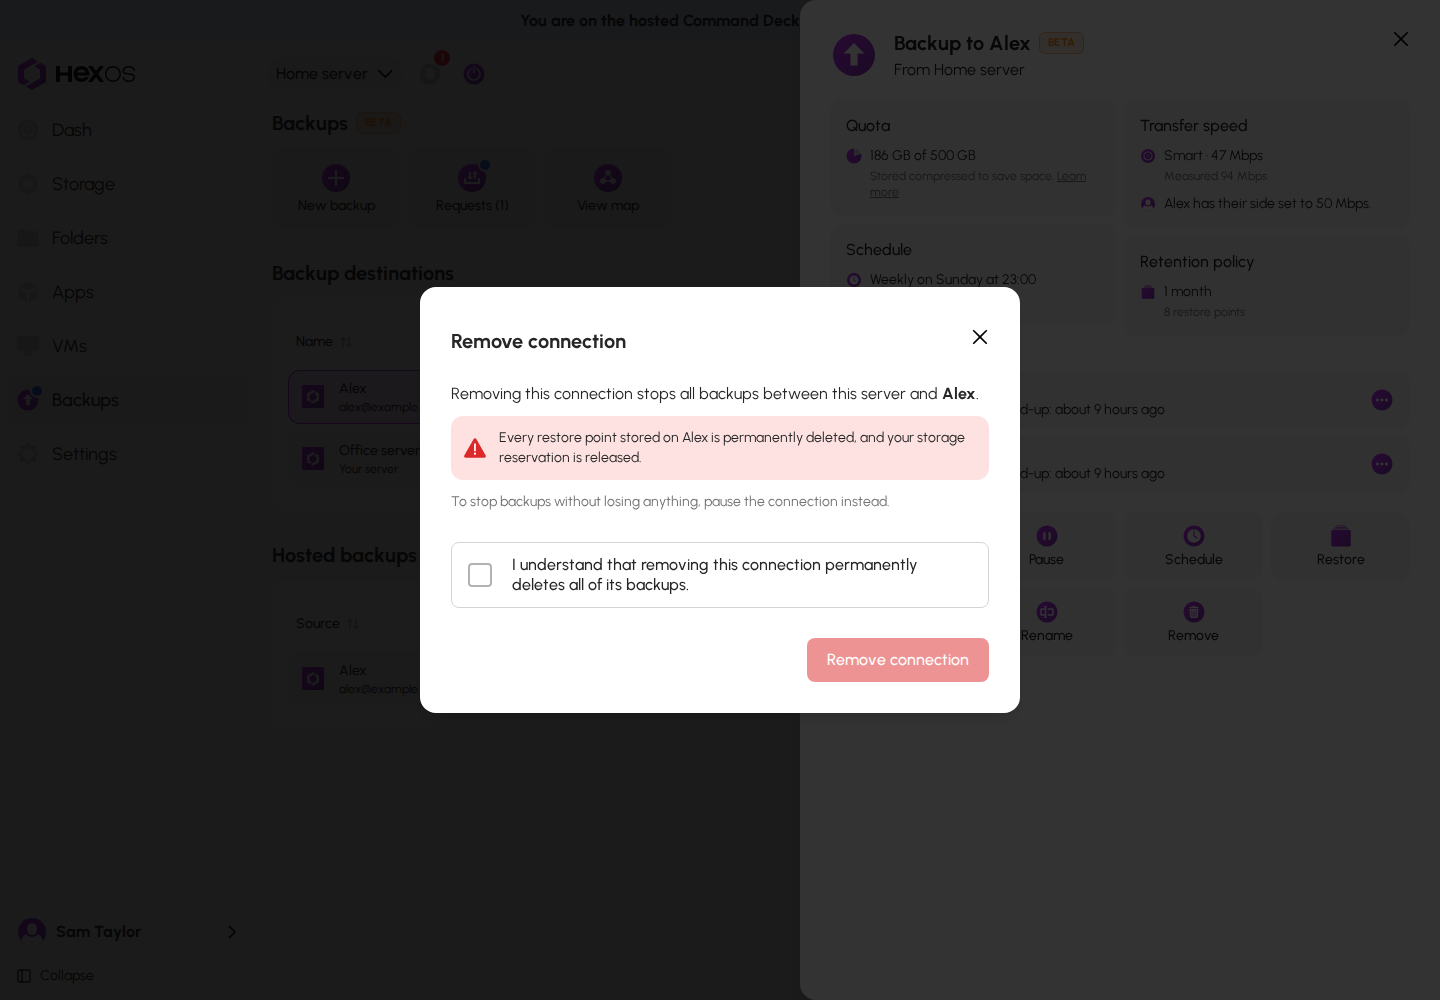
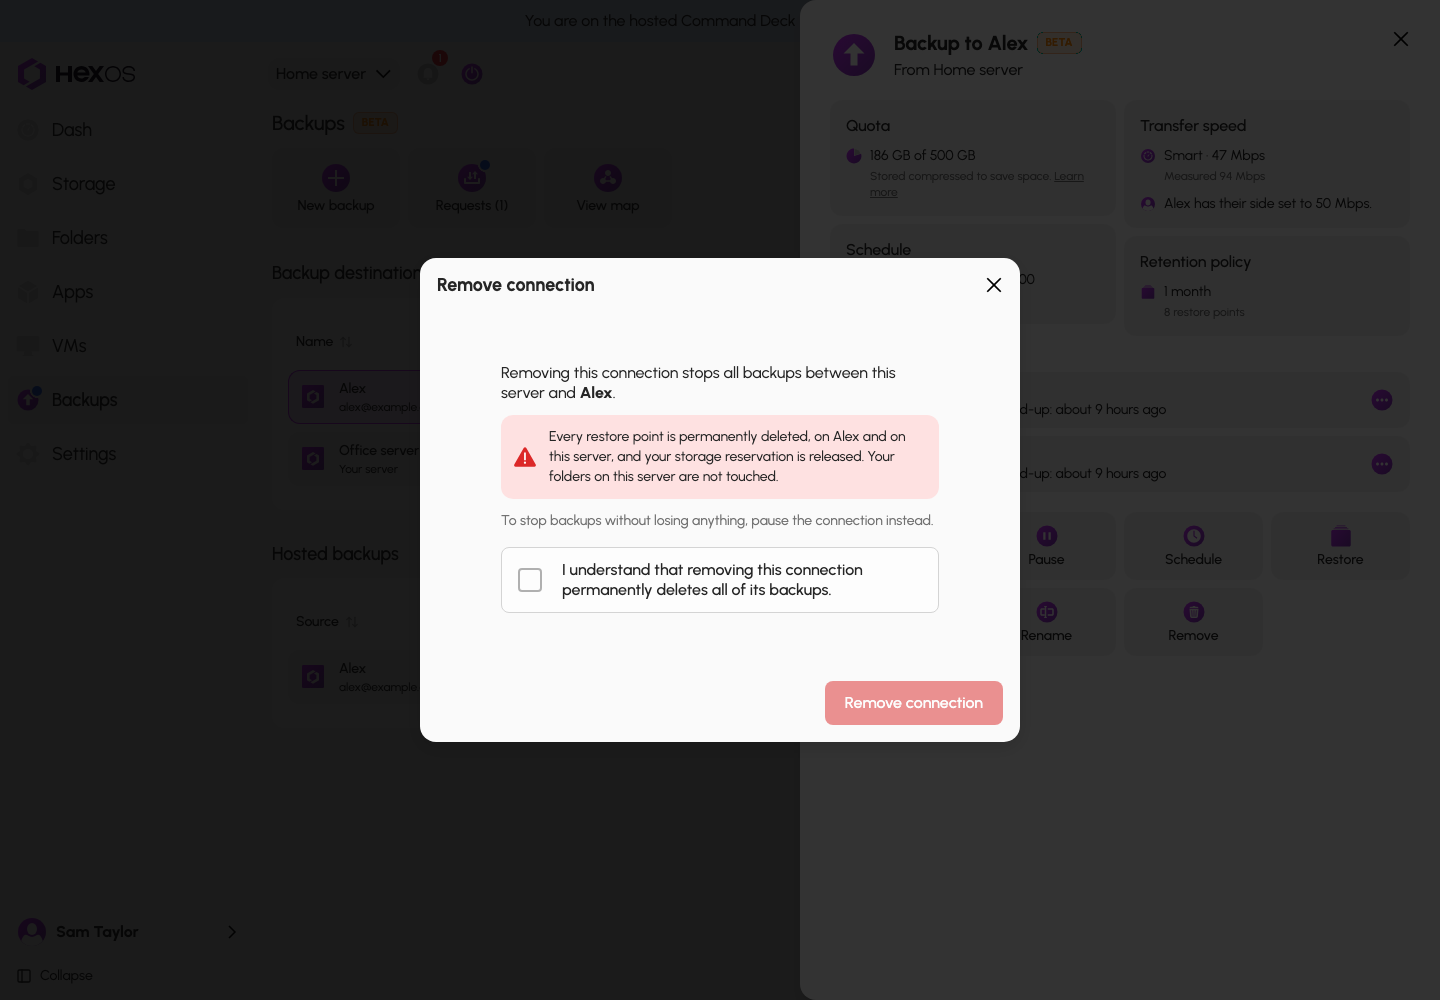
Removing a backup deletes its restore points on your own server too

diff --git a/features/backups/removing-backups.md b/features/backups/removing-backups.md
@@ -2,7 +2,7 @@
 title: Removing backups
 description: What pausing, declining, removing a folder, removing a connection, deleting a folder, and resetting a server each keep and destroy
 published: true
-date: 2026-10-07T00:00:00.000Z
+date: 2026-10-15T00:00:00.000Z
 tags: backups, buddy, pause, delete, remove
 editor: markdown
 dateCreated: 2026-09-07T00:31:08.086Z
@@ -24,8 +24,8 @@ Several actions look alike but do very different things. Read this page before y
 | **Cancel setup** on a new backup | Nothing. Setup never finished. | Yes, set it up again |
 | **Cancel setup** on a backup you recovered | Not offered. Use **Retry now**, or **Remove connection** to delete it. | |
 | **Pause** | Nothing. Copies and the space set aside stay. | Yes, by the person who paused |
-| Remove a folder from a backup | That folder's copy and all its restore points on the other server | **No** |
-| **Remove connection** | Every folder and every restore point on the other server, and the space set aside | **No** |
+| Remove a folder from a backup | That folder's copy and all its restore points on the other server, and its restore points on your server | **No** |
+| **Remove connection** | Every folder and every restore point on the other server, the space set aside, and the backup's restore points on your server | **No** |
 | Delete a folder that is backed up | The folder on your server **and** its backup copies on servers that are online | **No** |
 | **Repair backup** | That folder's copy on the other server, before a fresh copy is sent | **No** |
 | **Change pool** or **Change server** (on a backup you store) | The old copy, once the new copy is checked | Not needed: the backup moves |
@@ -35,6 +35,14 @@ Several actions look alike but do very different things. Read this page before y
 Only deleting a folder deletes your own files. Removing a connection also stops any restore in progress and removes the unfinished copy it left on your server.
 
 HexOS deletes a backup copy only when someone confirms one of the actions on this page. If the other server is offline then, the delete finishes when it is back. On its own, it removes only restore points older than the time you chose to keep them, and the unfinished copy that a stopped restore left on your server.
+
+## Restore points on your own server
+
+Your server keeps the restore points it made too. When you remove a folder or a connection from the server that sends the backup, they are deleted along with the copies on the other server, under the same confirmation. Your folders are not touched.
+
+- If your server is offline when you remove a connection, its restore points are removed once they are older than the time you chose to keep them, instead of right away.
+- If your buddy removes the connection, or their server is reset or unclaimed, the restore points on your server stay.
+- A backup you removed before October 2026, or one between your own servers that ended then, left its restore points on your server with nothing to remove them. They are now removed once they are older than the time you chose to keep them, and never sooner than two weeks after the update reaches your server.
 
 ## Pausing is not removing
 
@@ -59,7 +67,7 @@ You can do this in three places:
 - **The Folders dialog:** uncheck the folder and click **Remove 1 folder and save**, then **Delete and save** to confirm.
 - **The folder's own page:** under **Backing up to**, open the backup's menu and click **Remove backup destination**, then **Remove destination**.
 
-The folder on your server stays. Its copy on the other server, and every restore point of it, is deleted for good.
+The folder on your server stays. Its copy on the other server, and every restore point of it, is deleted for good, and so are its restore points on your server.
 
 > **Info:** If the other server is offline, its copy is deleted when that server is back online. Until then it still uses space there, and you can't add a folder with the same name to that backup.
 {.is-info}
@@ -68,7 +76,7 @@ The folder on your server stays. Its copy on the other server, and every restore
 
 Click the **Remove** tile on the backup's page, or **Remove connection** in the row's menu on the **Backups** page.
 
-The **Remove connection** dialog says "Removing this connection stops all backups between this server and" the other side. A red box says every restore point stored on the other server is permanently deleted, and the space set aside is released. It also suggests: "To stop backups without losing anything, pause the connection instead."
+The **Remove connection** dialog says "Removing this connection stops all backups between this server and" the other side. A red box says every restore point is permanently deleted, on the other server and on this one, and the space set aside is released. Your folders on this server are not touched. It also suggests: "To stop backups without losing anything, pause the connection instead."
 
 To go ahead, check "I understand that removing this connection permanently deletes all of its backups." and click **Remove connection**.
 

diff --git a/features/backups/how-it-works.md b/features/backups/how-it-works.md
@@ -2,7 +2,7 @@
 title: How Buddy Backups works
 description: The ZFS, WireGuard, and NetBird underneath Buddy Backups, for readers who want to know what is actually happening
 published: true
-date: 2026-10-07T00:00:00.000Z
+date: 2026-10-15T00:00:00.000Z
 tags: backups, buddy, zfs, wireguard, netbird, replication, technical
 editor: markdown
 dateCreated: 2026-09-08T14:00:00.000Z
@@ -104,6 +104,8 @@ If the snapshot the other side depends on is gone from your server, the run stop
 You choose how long restore points are kept: 1 week, 2 weeks (the default), 1 month, or 3 months. Weekly backups need at least 2 weeks, so 1 week is not offered for them.
 
 The receiving side follows your server. A restore point removed on your server is removed on the other side at the next backup.
+
+**When a backup is removed** from your server, the backup's snapshots on your server (`bb<connection>-…`, including the ones **Back up now** took) are deleted when its snapshot tasks are. A snapshot ZFS will not delete at that moment (held by a send, or cloned) gets TrueNAS's removal date instead: its creation time plus the retention time, in the `org.truenas:destroy_at_…` property TrueNAS's own retention reads. If your server is offline when the connection is removed, every snapshot gets that date instead of being deleted. A removal your buddy makes leaves them. Backups removed before October 2026 left their snapshots undated; HexOS dates them the same way, never sooner than two weeks out, and TrueNAS prunes them the next time it runs retention on that server.
 
 Your server normally keeps any snapshot the other side has not received yet, so a backup that could not run does not lose the snapshot it needs next. If that snapshot is lost anyway, the folder shows "Needs a fresh full copy". Shortening the time asks you to confirm first, because it removes restore points on the other server.
 

diff --git a/features/backups/manage-your-backups.md b/features/backups/manage-your-backups.md
@@ -2,7 +2,7 @@
 title: Manage your backups
 description: Change which folders are backed up, the schedule and retention, transfer speed, space, pause and resume, names, and read the Backups page and map
 published: true
-date: 2026-10-07T00:00:00.000Z
+date: 2026-10-15T00:00:00.000Z
 tags: backups, buddy, schedule, pause, folders
 editor: markdown
 dateCreated: 2026-08-23T12:07:15.363Z
@@ -68,7 +68,7 @@ Each folder row has a menu with:
 - **Back up now**: back up this folder straight away.
 - **Repair backup**: only shows when the folder's copy needs to start over. See [Backup troubleshooting](/features/backups/troubleshooting).
 - **Restore from this backup**: see [Restore a folder](/features/backups/restore-a-folder).
-- **Remove**: stop backing up this folder here, and delete its copy on the other server.
+- **Remove**: stop backing up this folder here, and delete its copy on the other server and its restore points on this one.
 
 <details>
 <summary> A folder's menu </summary>
@@ -115,7 +115,7 @@ Each folder already in the backup shows how many restore points it has at the de
 
 On a buddy's backup, folders that are not encrypted cannot be added yet. The dialog lists them with an **Encrypt…** button. When encryption finishes, HexOS adds the folder to the backup for you.
 
-> **Danger:** Removing a folder from a backup deletes its copy and every restore point on the other server. It cannot be undone. The folder on your own server is not touched. See [Removing backups](/features/backups/removing-backups).
+> **Danger:** Removing a folder from a backup deletes its copy and every restore point on the other server, and its restore points on your server. It cannot be undone. The folder on your own server is not touched. See [Removing backups](/features/backups/removing-backups).
 {.is-danger}
 
 ## Change the schedule and retention
